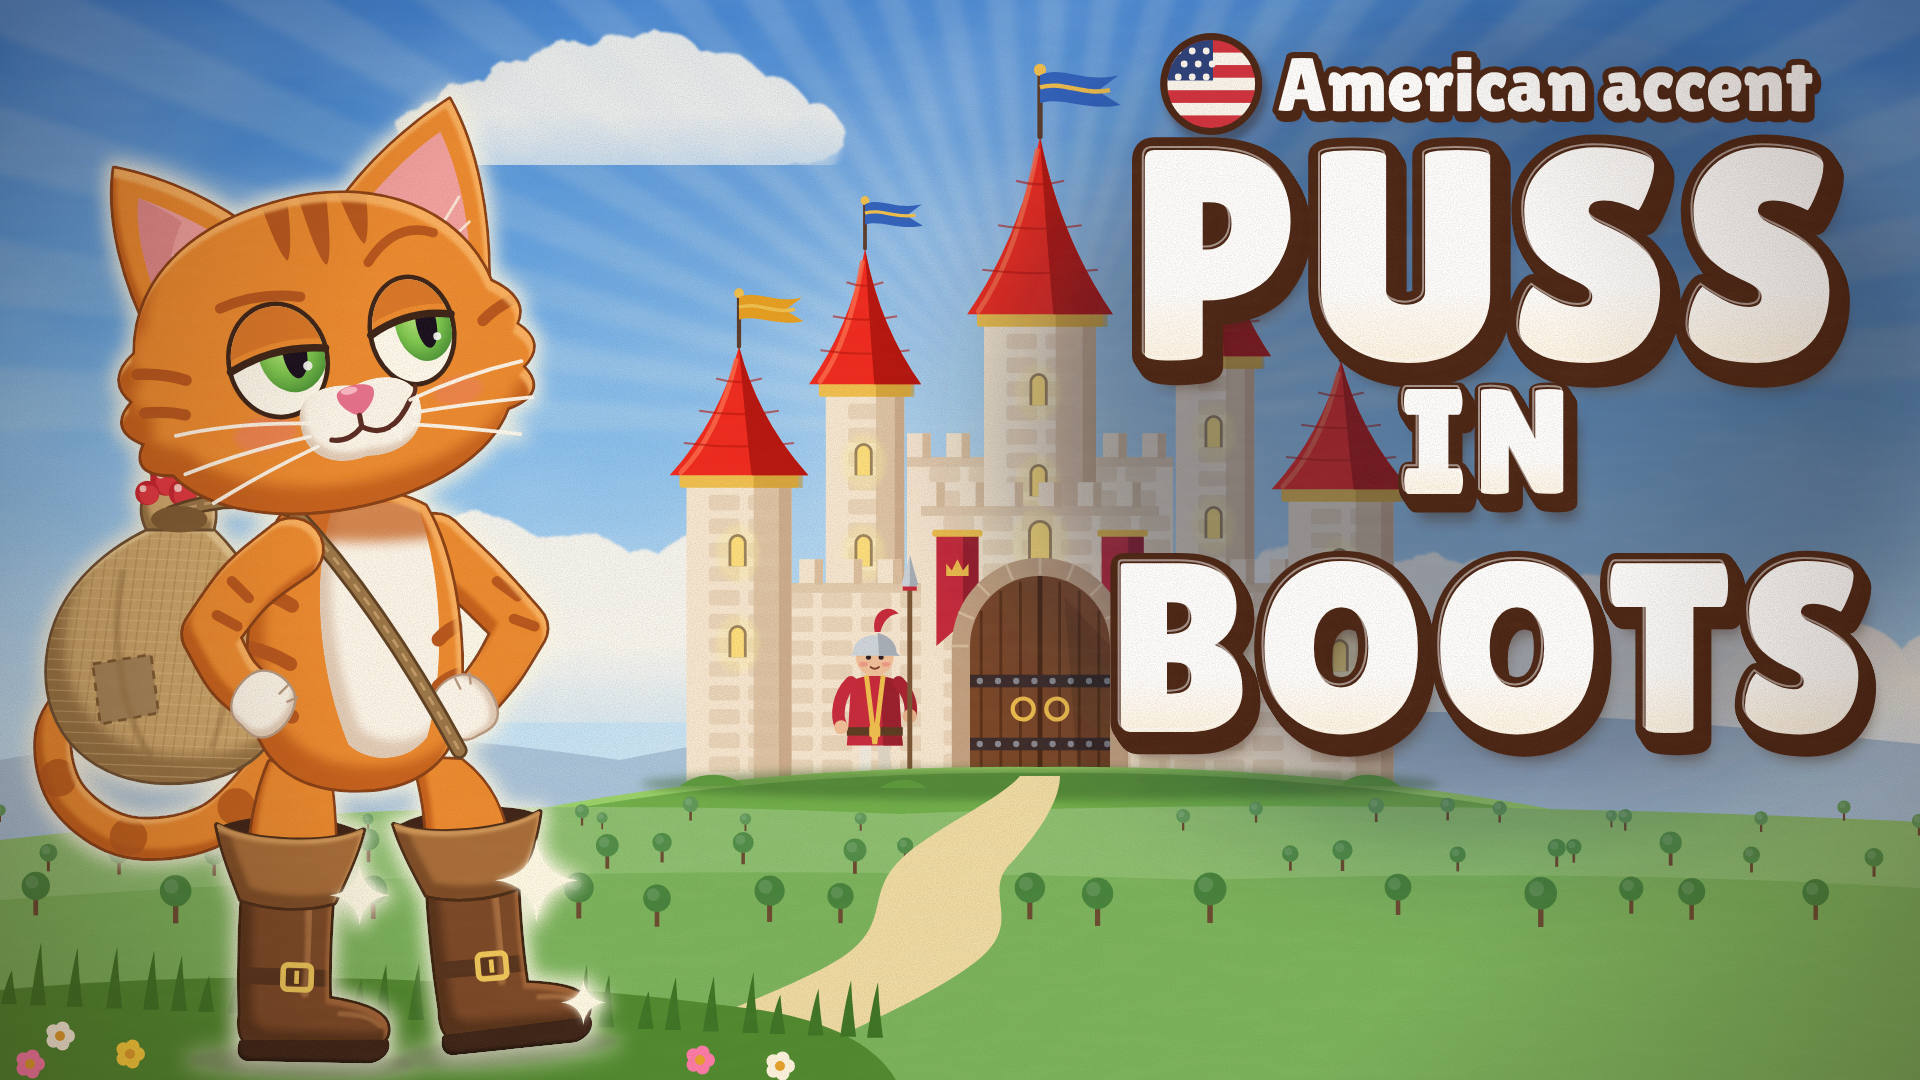
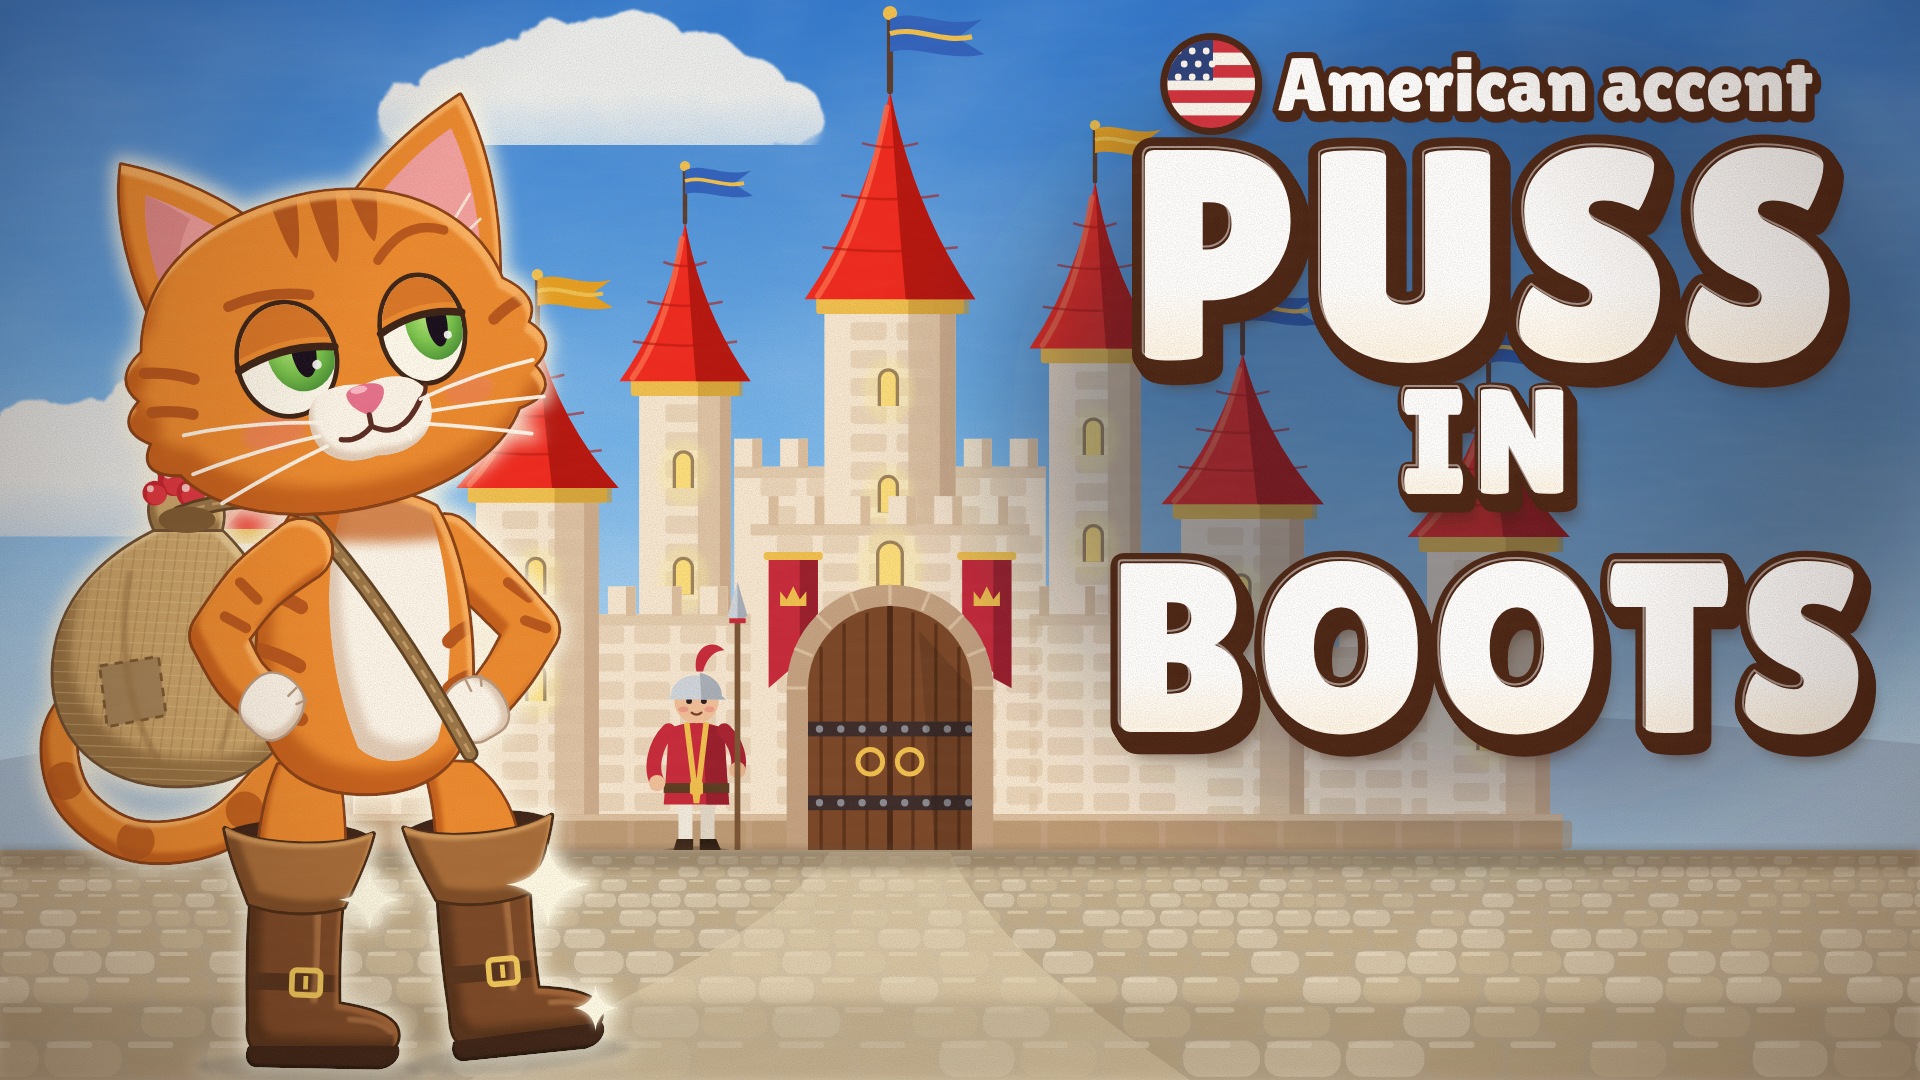
Thumbnail: a wider castle standing on a stone courtyard (no grass in front, no sky beams), door and guard in view between Puss and the title
Claude-Session: https://claude.ai/code/session_018MiCdL3RZvqxZBKivPbUKZ

diff --git a/film/thumb/thumb.js b/film/thumb/thumb.js
@@ -203,9 +203,11 @@ function castle(x, y, k) {   // a grand fairy-tale castle: towers with pointed r
   return `<g><g transform="translate(${x} ${y}) scale(${k})">
     ${tower(-250, 112, 560, 190, { fs: .9 })}${tower(250, 112, 600, 200, { fs: .9, fc: '#e8a020' })}
     ${crenWall(-190, 190, 470)}${tower(0, 160, 660, 250, { fs: 1.25, wins: 3 })}
+    ${crenWall(-740, 740, 250)}${tower(-730, 150, 380, 170, { wins: 2, fc: '#e8a020' })}${tower(730, 150, 370, 170, { wins: 2 })}
     ${crenWall(-400, 400, 290)}
     ${tower(-430, 150, 430, 180, { wins: 2, fc: '#e8a020' })}${tower(430, 150, 410, 180, { wins: 2 })}
     ${crenWall(-170, 170, 400)}${banner(-118)}${banner(118)}${win(0, -380, 34, 56)}
+    <rect x="-820" y="-46" width="1640" height="46" fill="${WD}"/><rect x="-820" y="-46" width="1640" height="8" fill="${WS}"/>${(() => { let f = ''; for (let xx = -816; xx < 816; xx += 72) f += `<rect x="${xx}" y="-38" width="64" height="34" rx="5" fill="#b8966e" opacity=".55"/>`; return f; })()}
     ${door}
     <path d="M-150 0 L150 0 L176 22 L-176 22 Z" fill="${WS}"/><path d="M-176 22 L176 22 L196 40 L-196 40 Z" fill="${WD}"/>
     ${guard(-236)}</g></g>`;
@@ -217,32 +219,31 @@ function rays(cx, cy, n, a) {   // soft sunbeams fanning out from behind the cas
 }
 function scene() {
   const o = [];
-  // sky: a clear blue, paler toward the horizon, a soft light behind the castle
-  DEFS.push(`<linearGradient id="sky" x1="0" y1="0" x2="0" y2="1080" gradientUnits="userSpaceOnUse"><stop offset="0" stop-color="#2f78d0"/><stop offset=".38" stop-color="#6fb2ec"/><stop offset=".66" stop-color="#bfe0f6"/><stop offset="1" stop-color="#eaf5f6"/></linearGradient>`);
-  DEFS.push(`<radialGradient id="glow" cx="1040" cy="430" r="820" gradientUnits="userSpaceOnUse"><stop offset="0" stop-color="#fffdf0" stop-opacity=".45"/><stop offset=".45" stop-color="#f4fbff" stop-opacity=".15"/><stop offset="1" stop-color="#f4fbff" stop-opacity="0"/></radialGradient>`);
-  o.push(`<rect width="1920" height="1080" fill="url(#sky)"/>${rays(1040, 430, 26, .12)}<rect width="1920" height="1080" fill="url(#glow)"/><rect width="1920" height="1080" filter="url(#mottle)" opacity=".35"/>`);
-  // clouds high in the sky and a soft bank along the horizon
-  o.push(cloud(620, 150, 380, 100, 3, { bot: '#d4e4f2', op: .85 }), cloud(1840, 760, 360, 100, 5, { bot: '#d4e4f2', op: .9 }), cloud(560, 700, 700, 150, 9, { bot: '#d8e8f2', op: .9 }), cloud(1500, 740, 900, 160, 4, { bot: '#d8e8f2', op: .9 }));
-  // far blue hills, the castle on its distant hill
+  // sky: clear blue, paler toward the horizon (no beams)
+  DEFS.push(`<linearGradient id="sky" x1="0" y1="0" x2="0" y2="1080" gradientUnits="userSpaceOnUse"><stop offset="0" stop-color="#2f78d0"/><stop offset=".4" stop-color="#6fb2ec"/><stop offset=".72" stop-color="#c4e2f6"/><stop offset="1" stop-color="#eaf5f6"/></linearGradient>`);
+  o.push(`<rect width="1920" height="1080" fill="url(#sky)"/><rect width="1920" height="1080" filter="url(#mottle)" opacity=".3"/>`);
+  o.push(cloud(600, 130, 380, 100, 3, { bot: '#d4e4f2', op: .9 }), cloud(140, 520, 420, 110, 5, { bot: '#d4e4f2', op: .85 }));
+  // distant blue hills behind the castle
   o.push(`<path d="M0 760 C220 720 420 730 620 760 C820 720 980 700 1160 726 C1380 700 1600 712 1920 744 L1920 1080 L0 1080 Z" fill="#a9c4dc"/>`);
-  o.push(castle(1040, 786, .7));
-  o.push(`<path d="M420 840 C600 790 820 768 1040 770 C1260 768 1480 790 1680 840 L1680 1080 L420 1080 Z" fill="#6fb04a"/><path d="M420 840 C600 790 820 768 1040 770 C1260 768 1480 790 1680 840" fill="none" stroke="#9ad46a" stroke-width="6"/>`);
-  o.push(`<ellipse cx="1040" cy="784" rx="400" ry="16" fill="#2e5a20" opacity=".45" filter="url(#b8)"/>`);
-  o.push(`<path d="M680 786 C700 770 730 772 744 786 Z M1340 786 C1352 772 1380 770 1400 786 Z M880 788 C896 776 916 778 926 788 Z" fill="#5a9a3c"/>`);
-  // the valley between: fields, small trees and the road winding off to the castle gate
-  o.push(`<path d="M0 840 C300 806 600 800 900 814 C1200 800 1600 806 1920 822 L1920 1080 L0 1080 Z" fill="#8cc070"/>`);
-  o.push(`<path d="M0 900 C400 870 800 866 1200 880 C1500 870 1760 878 1920 888 L1920 1080 L0 1080 Z" fill="#7ab45c"/>`);
-  let trees = ''; const tr = R0(77);
-  const tree = (x, y, h, c) => `<rect x="${n1(x - h * .05)}" y="${n1(y - h * .4)}" width="${n1(h * .1)}" height="${n1(h * .4)}" fill="#6a4a30"/><circle cx="${n1(x)}" cy="${n1(y - h * .62)}" r="${n1(h * .3)}" fill="${c}"/><circle cx="${n1(x - h * .08)}" cy="${n1(y - h * .7)}" r="${n1(h * .14)}" fill="#ffffff" opacity=".12"/>`;
-  for (const [y0, hh, c, n] of [[820, 22, '#5f9a5a', 26], [862, 32, '#4f8e48', 22], [912, 46, '#45843c', 16]]) for (let i = 0; i < n; i++) { const x = (i + tr()) * 1920 / n; if (Math.abs(x - 1040) < 120 && y0 < 900) continue; trees += tree(x, y0 + tr() * 16, hh * (.8 + tr() * .4), c); }
-  o.push(trees);
-  o.push(`<path d="M1020 776 C1000 800 930 830 900 860 C860 900 900 930 820 970 C740 1010 640 1040 560 1080 L760 1080 C820 1040 920 1004 970 966 C1030 924 980 896 1010 864 C1040 832 1060 800 1060 776 Z" fill="#f0dca4"/>`);
-  // the near hill Puss stands on
-  o.push(`<path d="M0 990 C220 968 520 976 760 1010 C840 1022 880 1052 896 1080 L0 1080 Z" fill="#4e8a2e"/>`);
-  let tufts = ''; const r = R0(41); for (let x = 8; x < 880; x += 22 + r() * 18) { const yb = 992 + (x / 880) * 34, h = 22 + r() * 30; tufts += `<path d="M${n1(x - 7)} ${n1(yb + 12)} Q${n1(x - 2)} ${n1(yb - h * .5)} ${n1(x + 4)} ${n1(yb - h)} Q${n1(x + 5)} ${n1(yb - h * .4)} ${n1(x + 9)} ${n1(yb + 12)} Z"/>`; }
-  o.push(`<g fill="#3c7424">${tufts}</g>`);
-  let fl = ''; for (const [x, y, c] of [[60, 1036, '#fff6e0'], [130, 1054, '#ffd23a'], [700, 1060, '#ff7aa8'], [780, 1066, '#fff6e0'], [30, 1064, '#ff7aa8']]) fl += `<g fill="${c}">${[0, 1, 2, 3, 4].map(i => `<circle cx="${n1(x + Math.cos(i * 1.2566) * 8)}" cy="${n1(y + Math.sin(i * 1.2566) * 8)}" r="7"/>`).join('')}</g><circle cx="${x}" cy="${y}" r="5" fill="#e8a22a"/>`;
-  o.push(fl);
+  // the castle, wide and tall, standing on the courtyard
+  o.push(castle(890, 852, .82));
+  // the stone courtyard in front of the castle: cobbles in perspective, the road to the gate a little lighter
+  const GY = 852;
+  o.push(`<rect x="0" y="${GY - 2}" width="1920" height="${1082 - GY}" fill="#bfae92"/>`);
+  let cob = ''; const r = R0(91);
+  for (let y = GY + 4, row = 0; y < 1090; row++) {
+    const t = (y - GY) / (1080 - GY), h = 8 + t * 34, w = h * 2.1;
+    for (let x = -w * (row % 2 ? .5 : 0); x < 1940; x += w + 3 + t * 3) {
+      const v = r(), c = v < .33 ? '#d6c6aa' : v < .66 ? '#cbb998' : '#c2ae8c';
+      cob += `<rect x="${n1(x + 1)}" y="${n1(y)}" width="${n1(w - 1 + r() * 4)}" height="${n1(h)}" rx="${n1(h * .45)}" fill="${c}"/><rect x="${n1(x + 3)}" y="${n1(y + 1)}" width="${n1(w * .6)}" height="${n1(Math.max(1.5, h * .18))}" rx="${n1(h * .1)}" fill="#efe4cc" opacity=".55"/>`;
+    }
+    y += h + 2 + t * 2;
+  }
+  o.push(`<g>${cob}</g>`);
+  o.push(`<path d="M830 ${GY} L950 ${GY} C990 940 1090 1010 1190 1080 L470 1080 C590 1010 770 940 830 ${GY} Z" fill="#e6d6b4" opacity=".55"/>`);
+  o.push(`<rect x="0" y="${GY - 4}" width="1920" height="22" fill="#5a4630" opacity=".35" filter="url(#b8)"/>`);
+  // a little shade at the front edge so the eye stays in the picture
+  o.push(`<rect x="0" y="1000" width="1920" height="80" fill="#5a4630" opacity=".18" filter="url(#b12)"/>`);
   return o.join('');
 }
 function title() {
@@ -284,7 +285,7 @@ function build() {
     `<radialGradient id="vig" cx="960" cy="540" r="1150" gradientUnits="userSpaceOnUse"><stop offset=".55" stop-color="#2a1208" stop-opacity="0"/><stop offset="1" stop-color="#2a1208" stop-opacity=".32"/></radialGradient>`;
   return `<svg xmlns="http://www.w3.org/2000/svg" viewBox="0 0 1920 1080" width="1920" height="1080"><defs>${filters}${DEFS.join('')}</defs>
     ${sceneSvg}
-    <g transform="translate(10 100) scale(.94)" filter="url(#halo)">${pussSvg}</g>
+    <g transform="translate(16 96) scale(.95)" filter="url(#halo)">${pussSvg}</g>
     ${titleSvg}
     <rect width="1920" height="1080" filter="url(#brush)" opacity=".18" style="mix-blend-mode:soft-light"/>
     <rect width="1920" height="1080" filter="url(#grain)" opacity=".5"/>
